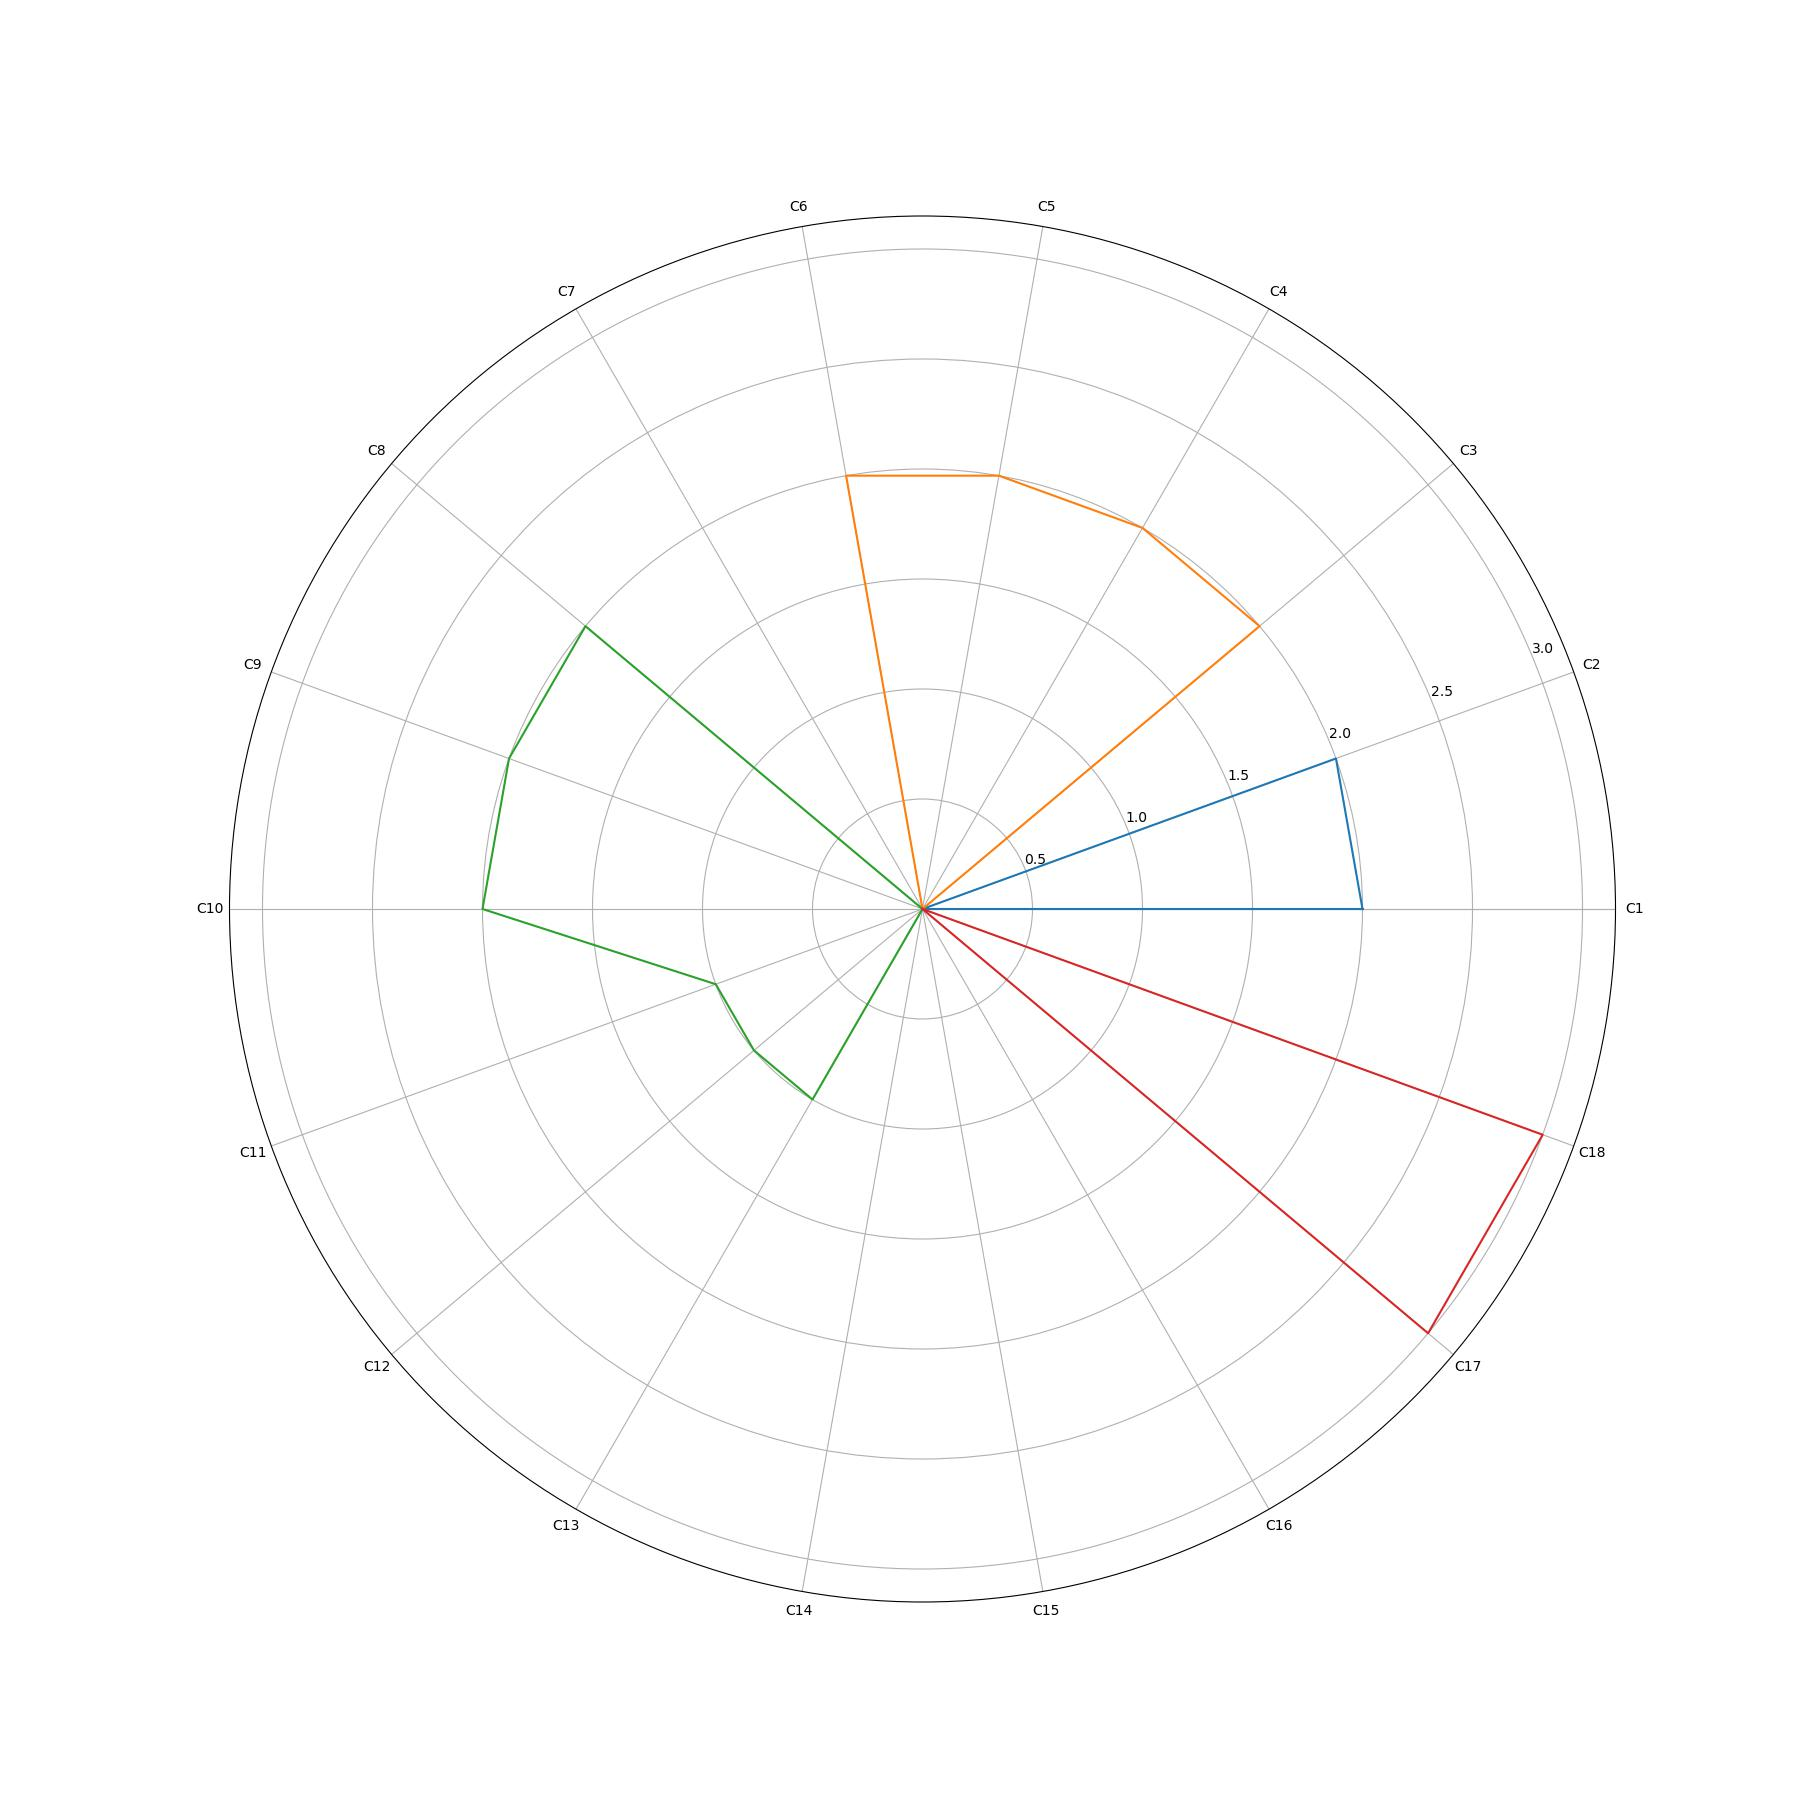
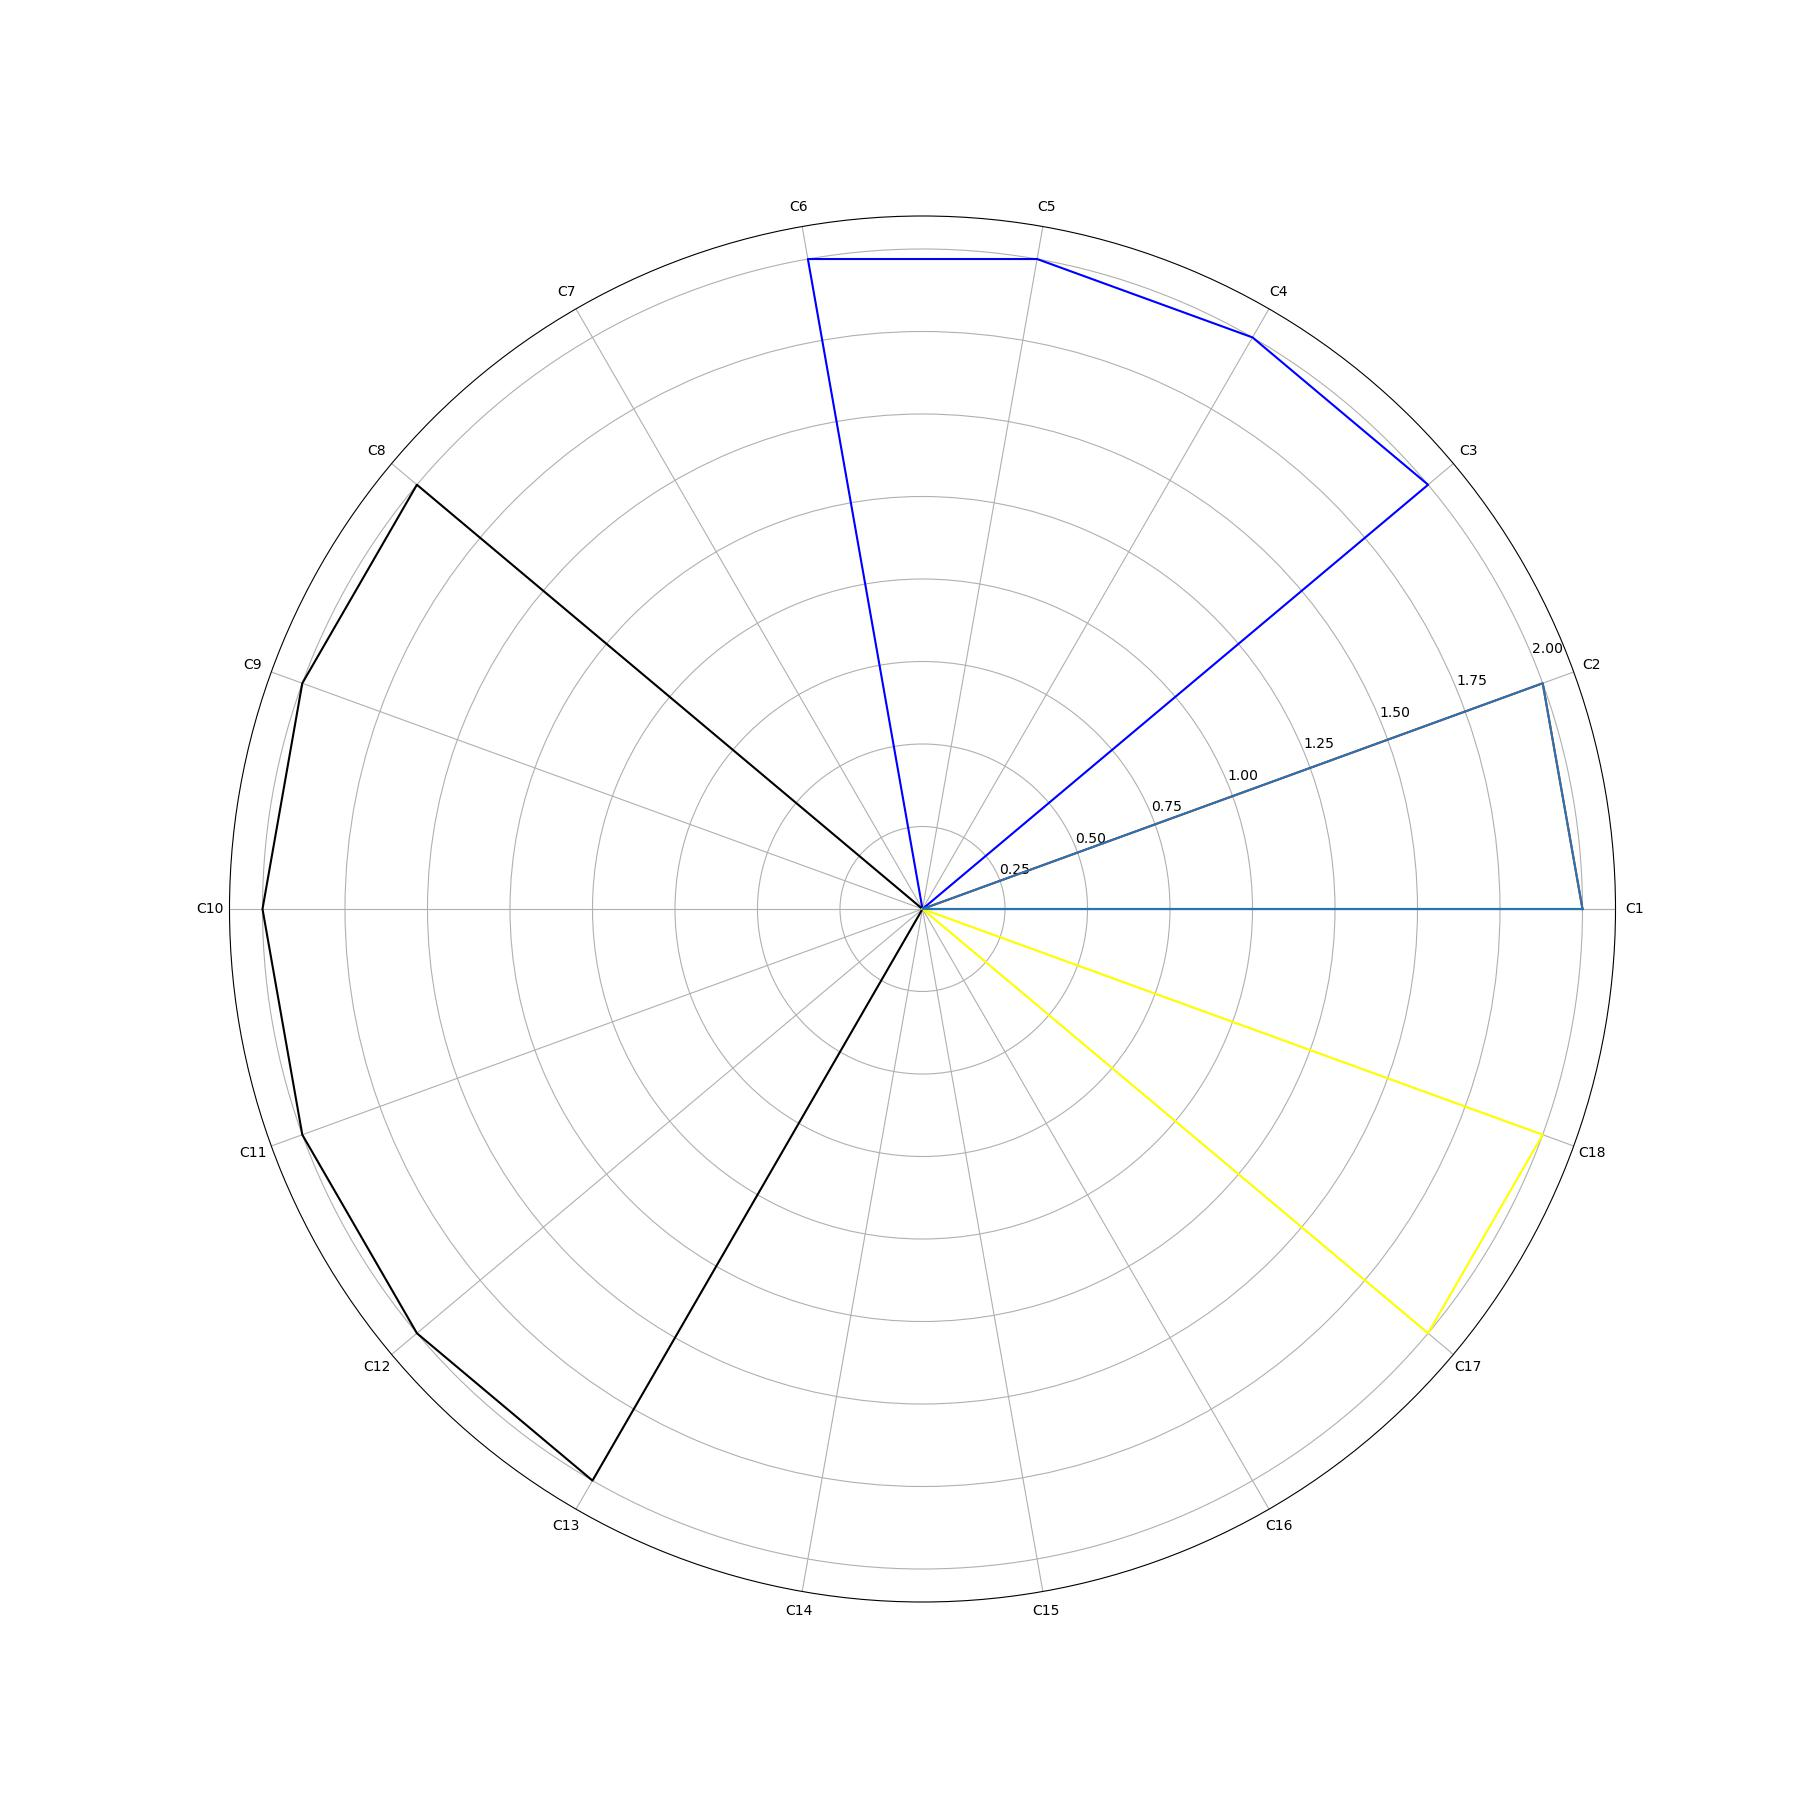
premier commit graphic fonction

diff --git a/applicant/models.py b/applicant/models.py
@@ -34,22 +34,22 @@ COMP_CHOICES =(
 )
 
 # creating a form
-class CompForm(models.Model):
-        C1=models.CharField(max_length=1, choices = COMP_CHOICES)
-        C2=models.CharField(max_length=1, choices = COMP_CHOICES)
-        C3=models.CharField(max_length=1, choices = COMP_CHOICES)
-        C4=models.CharField(max_length=1, choices = COMP_CHOICES)
-        C5=models.CharField(max_length=1, choices = COMP_CHOICES)
-        C6=models.CharField(max_length=1, choices = COMP_CHOICES)
-        C7=models.CharField(max_length=1, choices = COMP_CHOICES)
-        C8=models.CharField(max_length=1, choices = COMP_CHOICES)
-        C9=models.CharField(max_length=1, choices = COMP_CHOICES)
-        C10=models.CharField(max_length=1, choices = COMP_CHOICES)
-        C11=models.CharField(max_length=1, choices = COMP_CHOICES)
-        C12=models.CharField(max_length=1, choices = COMP_CHOICES)
-        C13=models.CharField(max_length=1, choices = COMP_CHOICES)
-        C14=models.CharField(max_length=1, choices = COMP_CHOICES)
-        C15=models.CharField(max_length=1, choices = COMP_CHOICES)
-        C16=models.CharField(max_length=1, choices = COMP_CHOICES)
-        C17=models.CharField(max_length=1, choices = COMP_CHOICES)
-        C18=models.CharField(max_length=1, choices = COMP_CHOICES)
+class Competence(models.Model):
+        C1=models.CharField(max_length=1, choices = COMP_CHOICES, default=1)
+        C2=models.CharField(max_length=1, choices = COMP_CHOICES, default=1)
+        C3=models.CharField(max_length=1, choices = COMP_CHOICES, default=1)
+        C4=models.CharField(max_length=1, choices = COMP_CHOICES, default=1)
+        C5=models.CharField(max_length=1, choices = COMP_CHOICES, default=1)
+        C6=models.CharField(max_length=1, choices = COMP_CHOICES, default=1)
+        C7=models.CharField(max_length=1, choices = COMP_CHOICES, default=1)
+        C8=models.CharField(max_length=1, choices = COMP_CHOICES, default=1)
+        C9=models.CharField(max_length=1, choices = COMP_CHOICES, default=1)
+        C10=models.CharField(max_length=1, choices = COMP_CHOICES, default=1)
+        C11=models.CharField(max_length=1, choices = COMP_CHOICES, default=1)
+        C12=models.CharField(max_length=1, choices = COMP_CHOICES, default=1)
+        C13=models.CharField(max_length=1, choices = COMP_CHOICES, default=1)
+        C14=models.CharField(max_length=1, choices = COMP_CHOICES, default=1)
+        C15=models.CharField(max_length=1, choices = COMP_CHOICES, default=1)
+        C16=models.CharField(max_length=1, choices = COMP_CHOICES, default=1)
+        C17=models.CharField(max_length=1, choices = COMP_CHOICES, default=1)
+        C18=models.CharField(max_length=1, choices = COMP_CHOICES, default=1)

diff --git a/applicant/migrations/0007_competence.py b/applicant/migrations/0007_competence.py
@@ -1,0 +1,37 @@
+# Generated by Django 3.2.5 on 2022-11-30 11:19
+
+from django.db import migrations, models
+
+
+class Migration(migrations.Migration):
+
+    dependencies = [
+        ('applicant', '0006_delete_compform'),
+    ]
+
+    operations = [
+        migrations.CreateModel(
+            name='Competence',
+            fields=[
+                ('id', models.BigAutoField(auto_created=True, primary_key=True, serialize=False, verbose_name='ID')),
+                ('C1', models.CharField(choices=[('1', 1), ('2', 2), ('3', 3)], max_length=1)),
+                ('C2', models.CharField(choices=[('1', 1), ('2', 2), ('3', 3)], max_length=1)),
+                ('C3', models.CharField(choices=[('1', 1), ('2', 2), ('3', 3)], max_length=1)),
+                ('C4', models.CharField(choices=[('1', 1), ('2', 2), ('3', 3)], max_length=1)),
+                ('C5', models.CharField(choices=[('1', 1), ('2', 2), ('3', 3)], max_length=1)),
+                ('C6', models.CharField(choices=[('1', 1), ('2', 2), ('3', 3)], max_length=1)),
+                ('C7', models.CharField(choices=[('1', 1), ('2', 2), ('3', 3)], max_length=1)),
+                ('C8', models.CharField(choices=[('1', 1), ('2', 2), ('3', 3)], max_length=1)),
+                ('C9', models.CharField(choices=[('1', 1), ('2', 2), ('3', 3)], max_length=1)),
+                ('C10', models.CharField(choices=[('1', 1), ('2', 2), ('3', 3)], max_length=1)),
+                ('C11', models.CharField(choices=[('1', 1), ('2', 2), ('3', 3)], max_length=1)),
+                ('C12', models.CharField(choices=[('1', 1), ('2', 2), ('3', 3)], max_length=1)),
+                ('C13', models.CharField(choices=[('1', 1), ('2', 2), ('3', 3)], max_length=1)),
+                ('C14', models.CharField(choices=[('1', 1), ('2', 2), ('3', 3)], max_length=1)),
+                ('C15', models.CharField(choices=[('1', 1), ('2', 2), ('3', 3)], max_length=1)),
+                ('C16', models.CharField(choices=[('1', 1), ('2', 2), ('3', 3)], max_length=1)),
+                ('C17', models.CharField(choices=[('1', 1), ('2', 2), ('3', 3)], max_length=1)),
+                ('C18', models.CharField(choices=[('1', 1), ('2', 2), ('3', 3)], max_length=1)),
+            ],
+        ),
+    ]

diff --git a/account_simplonien/views.py b/account_simplonien/views.py
@@ -1,6 +1,8 @@
 from django.contrib.auth import get_user_model, login, logout, authenticate
 from django.shortcuts import redirect, render
-from applicant.models import Applicant, CompForm
+from applicant.forms import CompetencesForm
+from applicant.graphic.graphic import get_graph
+from applicant.models import Applicant, Competence
 from django.core.files.storage import FileSystemStorage
 from django.http import HttpResponse, HttpResponseRedirect
 
@@ -84,13 +86,15 @@ def apply(request):
 
 # Vue pour les competences du simplonien
 def competence(request):
+    submitted = False    
     if request.method == "POST":
-        form = CompForm(request.POST)
+        form = CompetencesForm(request.POST)
         if form.is_valid():
+            get_graph(form.cleaned_data, "dade")
             form.save()
-            return HttpResponseRedirect("account_simplonien/competence.html")
+            return HttpResponseRedirect("/competence/")
     else:
-        form = CompForm
+        form = CompetencesForm
         if "submitted" in request.GET:
             submitted = True
     return render(request, "account_simplonien/competence.html", {"form" : form})

diff --git a/applicant/graphic/graphic.py b/applicant/graphic/graphic.py
@@ -3,12 +3,14 @@ import matplotlib.pyplot as plt
 
 input_simploniens = [2]*11 +[1]*5 +[3]*2  # A remplacer par un input
 
-def get_graph(input_value: list, username: str):
-    input_simploniens = input_value
+def get_graph(input_value: dict, username: str):
+    input_simploniens = []
+    for value in input_value:
+        input_simploniens.append(int(input_value[value]))
     categories = ['C1', 'C2', 'C3', 'C4', 'C5','C6','C7','C8','C9','C10','C11','C12','C13','C14','C15','C16','C17','C18','']
-
+    print(input_simploniens)
     # le '' est la pour éviter un message d'erreur
-    A1 = input_simploniens[0:2]+[0]*16    
+    A1 = input_simploniens[0:2]+[0]*16
     A2 = [0]*2 + input_simploniens[3:7] + [0]*12
     A3 = [0]*7 + input_simploniens[8:14] + [0]*5
     A4 =  [0]*16 + input_simploniens[16:18]
@@ -36,5 +38,3 @@ def get_graph(input_value: list, username: str):
     plt.savefig(f"applicant/graphic/graphic_img/graphic_{username}.jpg")
 
     plt.legend()
-
-get_graph(input_simploniens, "mamlloto")

diff --git a/Arbre/urls.py b/Arbre/urls.py
@@ -24,7 +24,7 @@ from account_simplonien.views import competence, logout_simplonien, login_simplo
 
 
 urlpatterns = [
-    path('', index, name="index_page",),
+    path('', index, name="index_page"),
     path('admin/', admin.site.urls),
     path('login/', login_simplonien, name="login"),
     path('logout/', logout_simplonien, name="logout"),

diff --git a/applicant/forms.py b/applicant/forms.py
@@ -1,8 +1,8 @@
 from django.forms import ModelForm
-from .models import CompForm
+from .models import Competence
 
 
 class CompetencesForm(ModelForm):
     class Meta:
-        form = CompForm
-        fields = ("C1", "C1", "C1", "C1", "C1", "C1", "C1", "C1", "C1", "C1", "C1", "C1", )
+        model = Competence
+        fields = "__all__"
